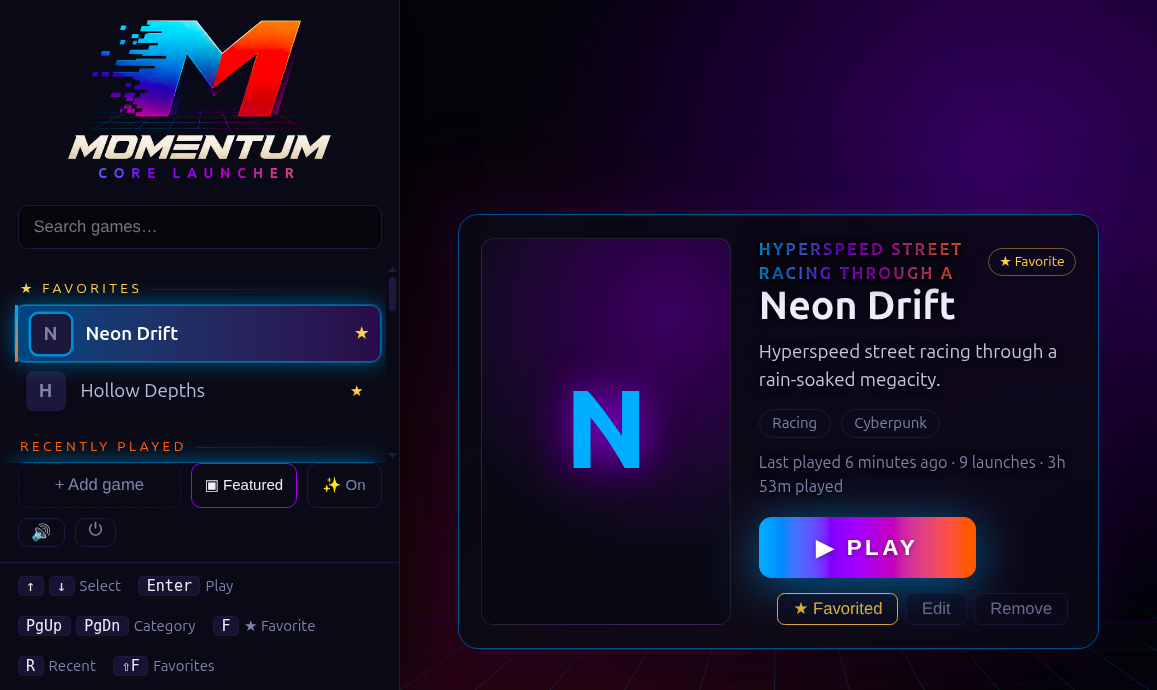
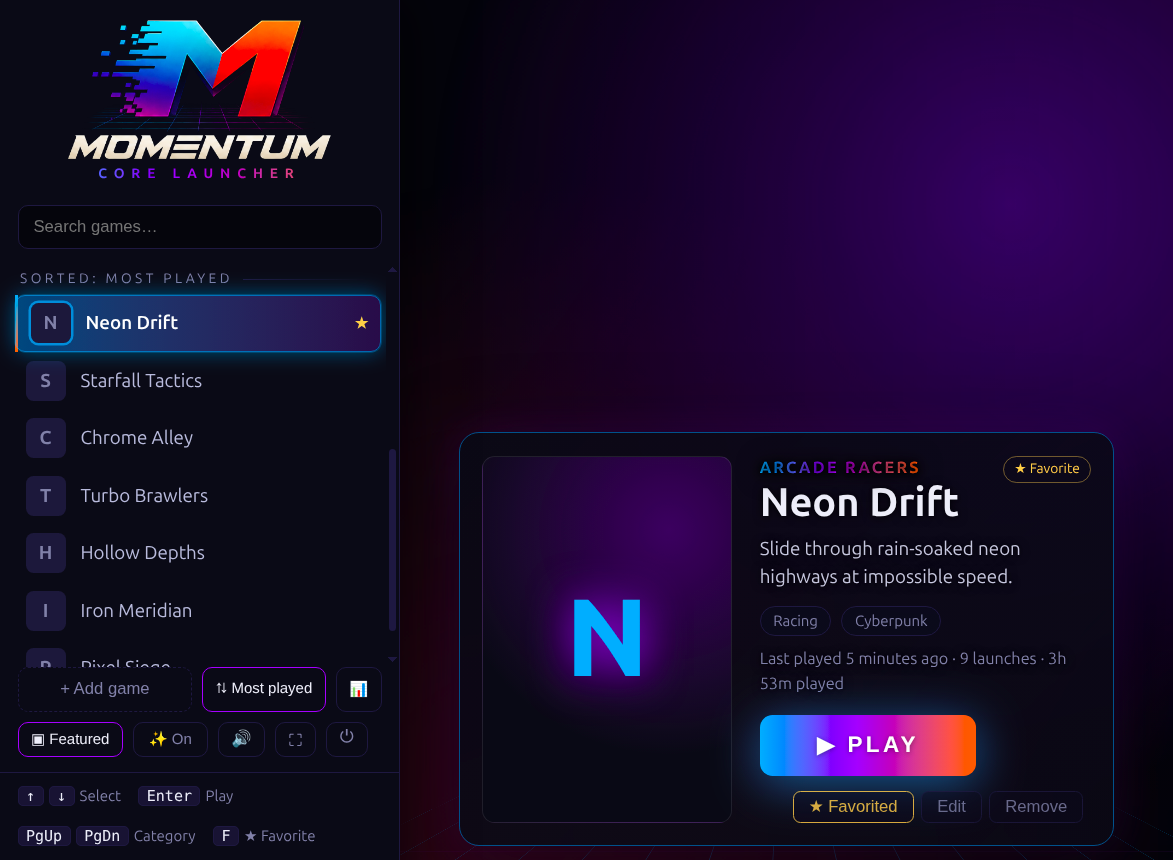
Refresh README screenshot to show sort button and sorted list

diff --git a/README.md b/README.md
@@ -1,6 +1,6 @@
 # Momentum Core Launcher
 
-![Momentum Core Launcher showing the Featured panel with demo games](docs/screenshot.png)
+![Momentum Core Launcher showing the Featured panel, sort button and demo games](docs/screenshot.png)
 
 ![Playtime summary with streaks and a weekly chart](docs/stats.png)
 
